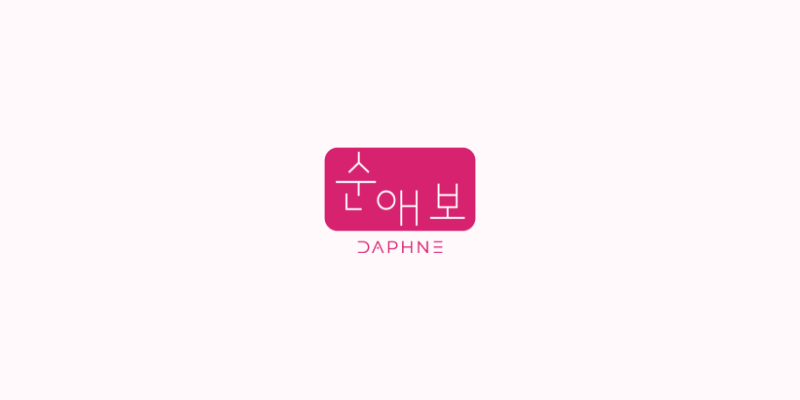
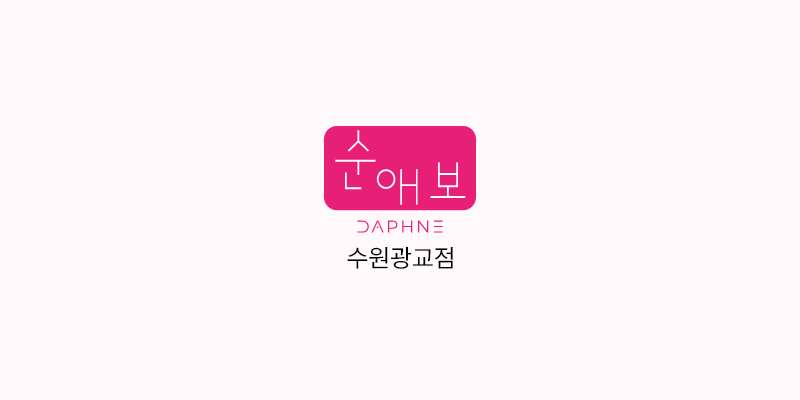
commit

Changed region(s): [[0.4062, 0.3, 0.5938, 0.69]]

diff --git a/front/components/AppHeader.jsx b/front/components/AppHeader.jsx
@@ -311,8 +311,8 @@ const AppHeader = ({ children, width }) => {
               <a>
                 <Image
                   alt="logo"
-                  width={`112px`}
-                  src={`https://4leaf-s3.s3.ap-northeast-2.amazonaws.com/sunaebo/assets/images/logo/header_logo.png`}
+                  width={`84px`}
+                  src={`https://4leaf-s3.s3.ap-northeast-2.amazonaws.com/sunaebo/assets/images/logo/logo_swgg.png`}
                 />
               </a>
             </Link>
@@ -565,8 +565,8 @@ const AppHeader = ({ children, width }) => {
           <Wrapper width={`auto`} al={`flex-start`}>
             <ATag width={`auto`} href="/">
               <Image
-                width={`70px`}
-                src={`https://4leaf-s3.s3.ap-northeast-2.amazonaws.com/sunaebo/assets/images/logo/header_logo.png`}
+                width={`50px`}
+                src={`https://4leaf-s3.s3.ap-northeast-2.amazonaws.com/sunaebo/assets/images/logo/logo_swgg.png`}
               />
             </ATag>
           </Wrapper>
@@ -584,8 +584,8 @@ const AppHeader = ({ children, width }) => {
             <Wrapper dr={`row`} ju={`space-between`} fontSize={`1.5rem`}>
               <ATag width={`auto`} href="/">
                 <Image
-                  width={`70px`}
-                  src={`https://4leaf-s3.s3.ap-northeast-2.amazonaws.com/sunaebo/assets/images/logo/header_logo.png`}
+                  width={`50px`}
+                  src={`https://4leaf-s3.s3.ap-northeast-2.amazonaws.com/sunaebo/assets/images/logo/logo_swgg.png`}
                 />
               </ATag>
               <CloseOutlined onClick={drawarToggle} />

diff --git a/front/pages/_app.js b/front/pages/_app.js
@@ -55,8 +55,8 @@ const Fourleaf = ({ Component }) => {
         <meta name="author" content="4LEAF SOFTWARE <4leaf.ysh@gmail.com>" />
         {/* <!-- OG tag  --> */}
         <meta property="og:type" content="website" />
-        <meta property="og:title" content="순애보" />
-        <meta property="og:site_name" content="순애보" />
+        <meta property="og:title" content="순애보 수원광교점" />
+        <meta property="og:site_name" content="순애보 수원광교점" />
         <meta property="og:url" content="https://www.sunaebo-az.com/" />
         <meta property="og:image:width" content="800" />
         <meta property="og:image:height" content="400" />
